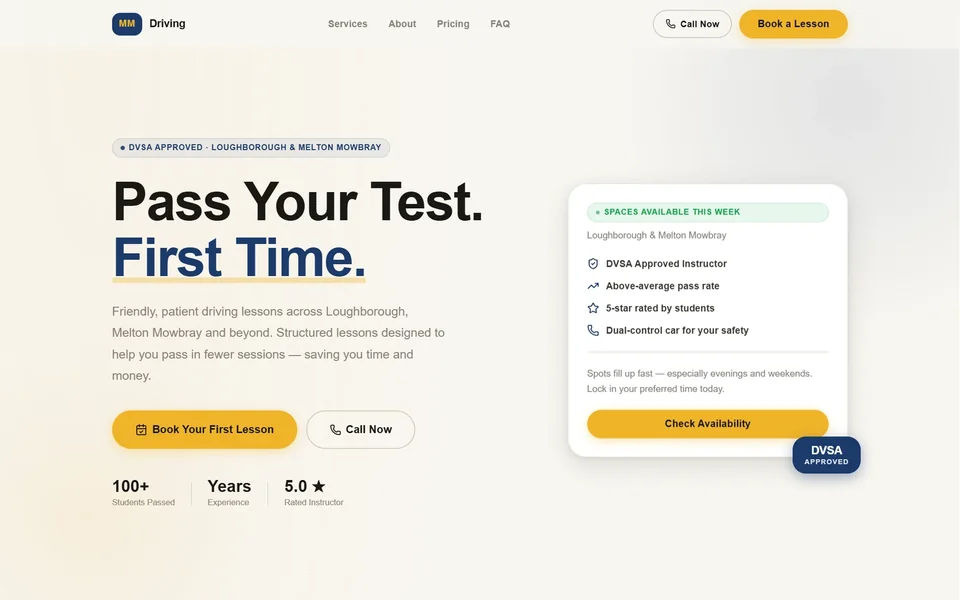
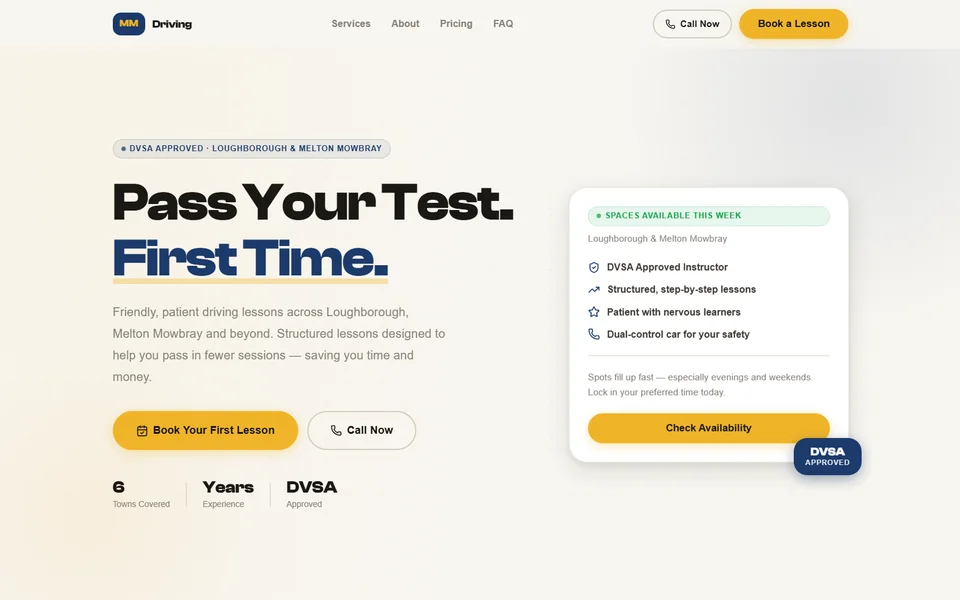
Add sitemap, robots.txt and structured data; refresh MMDriving screenshot

diff --git a/index.html b/index.html
@@ -5,6 +5,35 @@
 <meta name="viewport" content="width=device-width, initial-scale=1.0, viewport-fit=cover">
 <title>Cole Crawley, UX and web designer</title>
 <meta name="description" content="Cole Crawley designs interfaces and builds them. Case studies in UX strategy, product design and front-end work.">
+<script type="application/ld+json">
+{
+  "@context": "https://schema.org",
+  "@graph": [
+    {
+      "@type": "Person",
+      "@id": "https://colecrawley.vercel.app/#person",
+      "name": "Cole Crawley",
+      "url": "https://colecrawley.vercel.app/",
+      "jobTitle": "UX and Web Designer",
+      "email": "mailto:colecrawleyuk@gmail.com",
+      "address": { "@type": "PostalAddress", "addressLocality": "Lincoln", "addressCountry": "GB" },
+      "alumniOf": { "@type": "CollegeOrUniversity", "name": "University of Lincoln" },
+      "knowsAbout": ["User experience design", "Web design", "Information architecture", "Usability testing", "Front-end development"],
+      "sameAs": [
+        "https://www.linkedin.com/in/cole-crawley-4aa18737a/",
+        "https://github.com/Cole-Crawley"
+      ]
+    },
+    {
+      "@type": "WebSite",
+      "@id": "https://colecrawley.vercel.app/#website",
+      "url": "https://colecrawley.vercel.app/",
+      "name": "Cole Crawley",
+      "author": { "@id": "https://colecrawley.vercel.app/#person" }
+    }
+  ]
+}
+</script>
 <link rel="canonical" href="https://colecrawley.vercel.app/">
 <meta property="og:type" content="website">
 <meta property="og:site_name" content="Cole Crawley">

diff --git a/mmdriving.html b/mmdriving.html
@@ -76,7 +76,7 @@
 <main class="ink">
   <div class="wrap">
     <div class="wip">
-      <strong>Still in progress.</strong> I'm finishing this with the client. Some copy on the live site, including the pass count and rating in the hero, is placeholder text until they confirm real figures.
+      <strong>Still in progress.</strong> I'm finishing this with the client. Pass rates and reviews will go on the site once they're confirmed, rather than guessed.
     </div>
 
     <h2>The brief</h2>
@@ -84,7 +84,7 @@
 
     <figure class="panel" data-reveal>
       <img src="img/mm-hero.webp" alt="MMDriving hero: headline 'Pass Your Test. First Time.', book and call buttons, and a card listing DVSA approval, pass rate, rating and a dual-control car" width="1600" height="1000" loading="lazy">
-      <figcaption>The hero leads with the outcome a learner wants and puts both ways to book side by side. The stats under the buttons are placeholders for now.</figcaption>
+      <figcaption>The hero leads with the outcome a learner wants and puts both ways to book side by side.</figcaption>
     </figure>
 
     <h2>One page, in the order a learner decides</h2>
